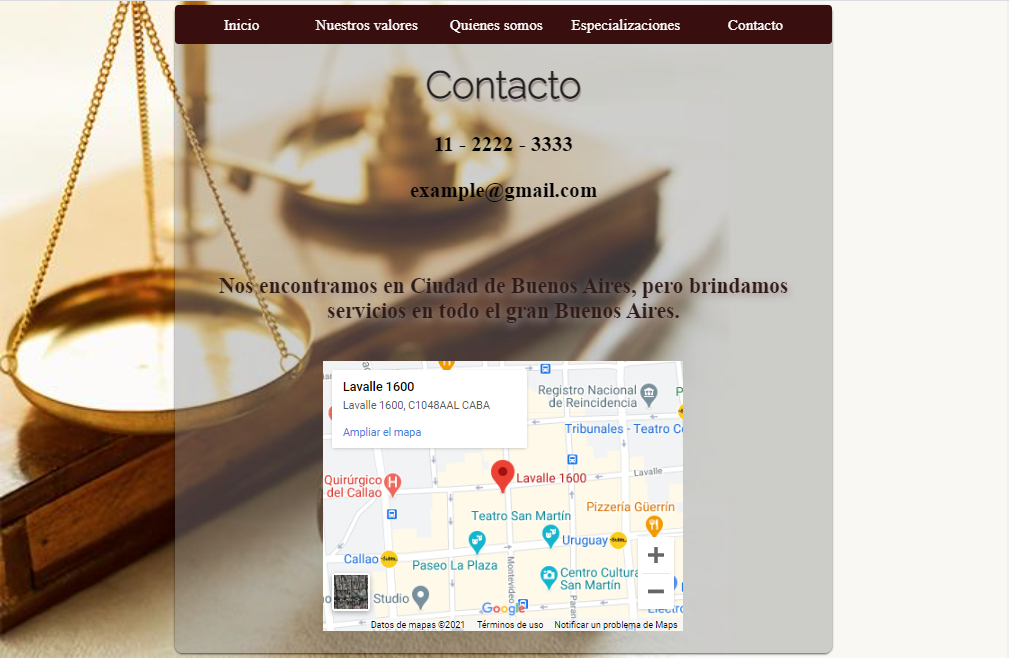
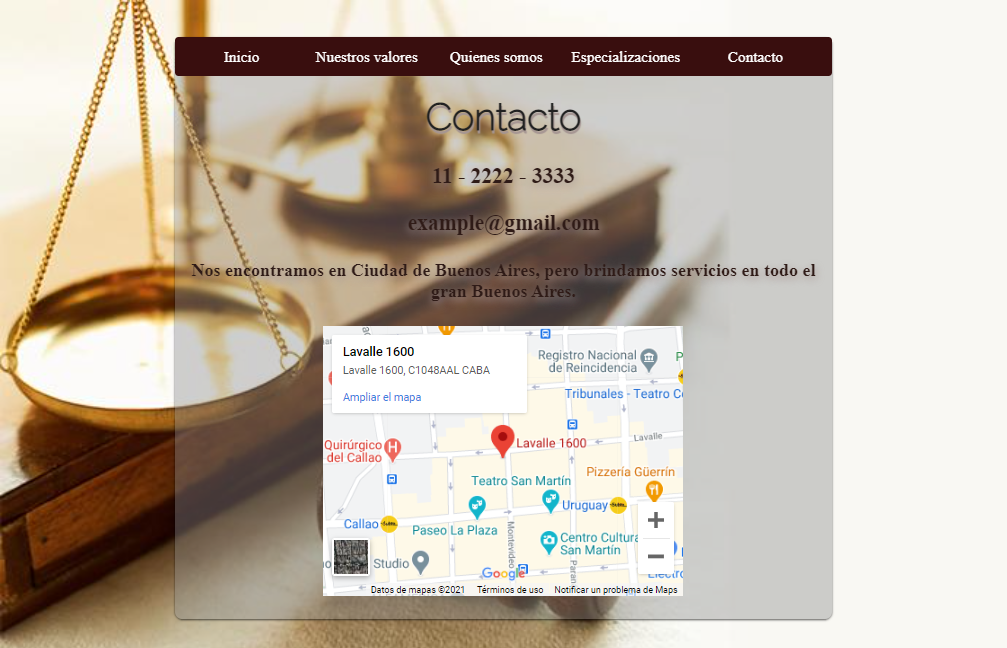
resubo img contacto

diff --git a/estudioCSGP/contacto.html b/estudioCSGP/contacto.html
@@ -13,32 +13,43 @@
 	</head>
 
 	<body>
-		<div class="imagen-de-fondo row contenedor-principal middle-xs center-xs">		
+		<div class="imagen-de-fondo row main-container middle-xs center-xs">		
 			<div class="col-md-8 col-sm-10 col-xs-11 col-lg-7">
 				<div class="box">
-					<div class="tarjeta animated slideInUp">
-						<header class="titulo-principal">
-							<nav class="main-nav">
-								<a href = "index.html" class="link-navegacion">Inicio</a><a href = "nuestros_valores.html" class="link-navegacion">Nuestros valores</a>
-								<a href = "quienes_somos.html" class="link-navegacion">Quienes somos</a>
-								<a href = "Especializaciones.html" class="link-navegacion">Especializaciones</a> 
-								<a href = "contacto.html" class="link-navegacion">Contacto</a>
-							</nav>
+					<div class="card animated slideInUp">
+						<header class="main-header">
+						<nav class="main-nav">
+							<a href = "index.html" class="nav-link">Inicio</a><a href = "nuestros_valores.html" class="nav-link">Nuestros valores</a>
+							<a href = "quienes_somos.html" class="nav-link">Quienes somos</a>
+							<a href = "Especializaciones.html" class="nav-link">Especializaciones</a> 
+							<a href = "contacto.html" class="nav-link">Contacto</a>
+						</nav>
+					</header>
+
+					<div class="menu body animated slideInDown">
+						<header class="text-center">
+							<h1 class="letra-raleway texto-boton"> Contacto </h1>
+							<h3 class="subtitulo-home">11 - 2222 - 3333</h3>
+							<h3 class="subtitulo-home">example@gmail.com</h3>
 						</header>
-						<div class="menu cuerpo animated slideInDown">
-							<header class="texto-centrado">
-								<h1 class="letra-raleway texto-boton"> Contacto </h1>
-							</header>
-							<h5 class="subtitulo-home">
-								<br></br>Nos encontramos en Ciudad de Buenos Aires, pero brindamos servicios en todo el gran Buenos Aires.
-							</h5>
+						
+						<div>
+							<h4 style="color: #2F1B17; text-shadow: 1px 3px 10px #A59592">
+								Nos encontramos en Ciudad de Buenos Aires, pero brindamos servicios en todo el gran Buenos Aires.
+							</h4>
 							<iframe src="https://www.google.com/maps/embed?pb=!1m18!1m12!1m3!1d3284.0379023874366!2d-58.391766585052316!3d-34.60320306497725!2m3!1f0!2f0!3f0!3m2!1i1024!2i768!4f13.1!3m3!1m2!1s0x95bccac1309d874b%3A0x8ea2a2676e566122!2sLavalle%201600%2C%20C1048AAL%20CABA!5e0!3m2!1ses!2sar!4v1609732306650!5m2!1ses!2sar" width="400" height="300" frameborder="0" style="border:0;" allowfullscreen="" aria-hidden="false" tabindex="0"></iframe>
 						</div>
-					</div>					
+														
+					</div>
+					</div>
+
+					
 				</div>
 			</div>
 		</div>
+
 	</body>
+
 </html>
 
 
